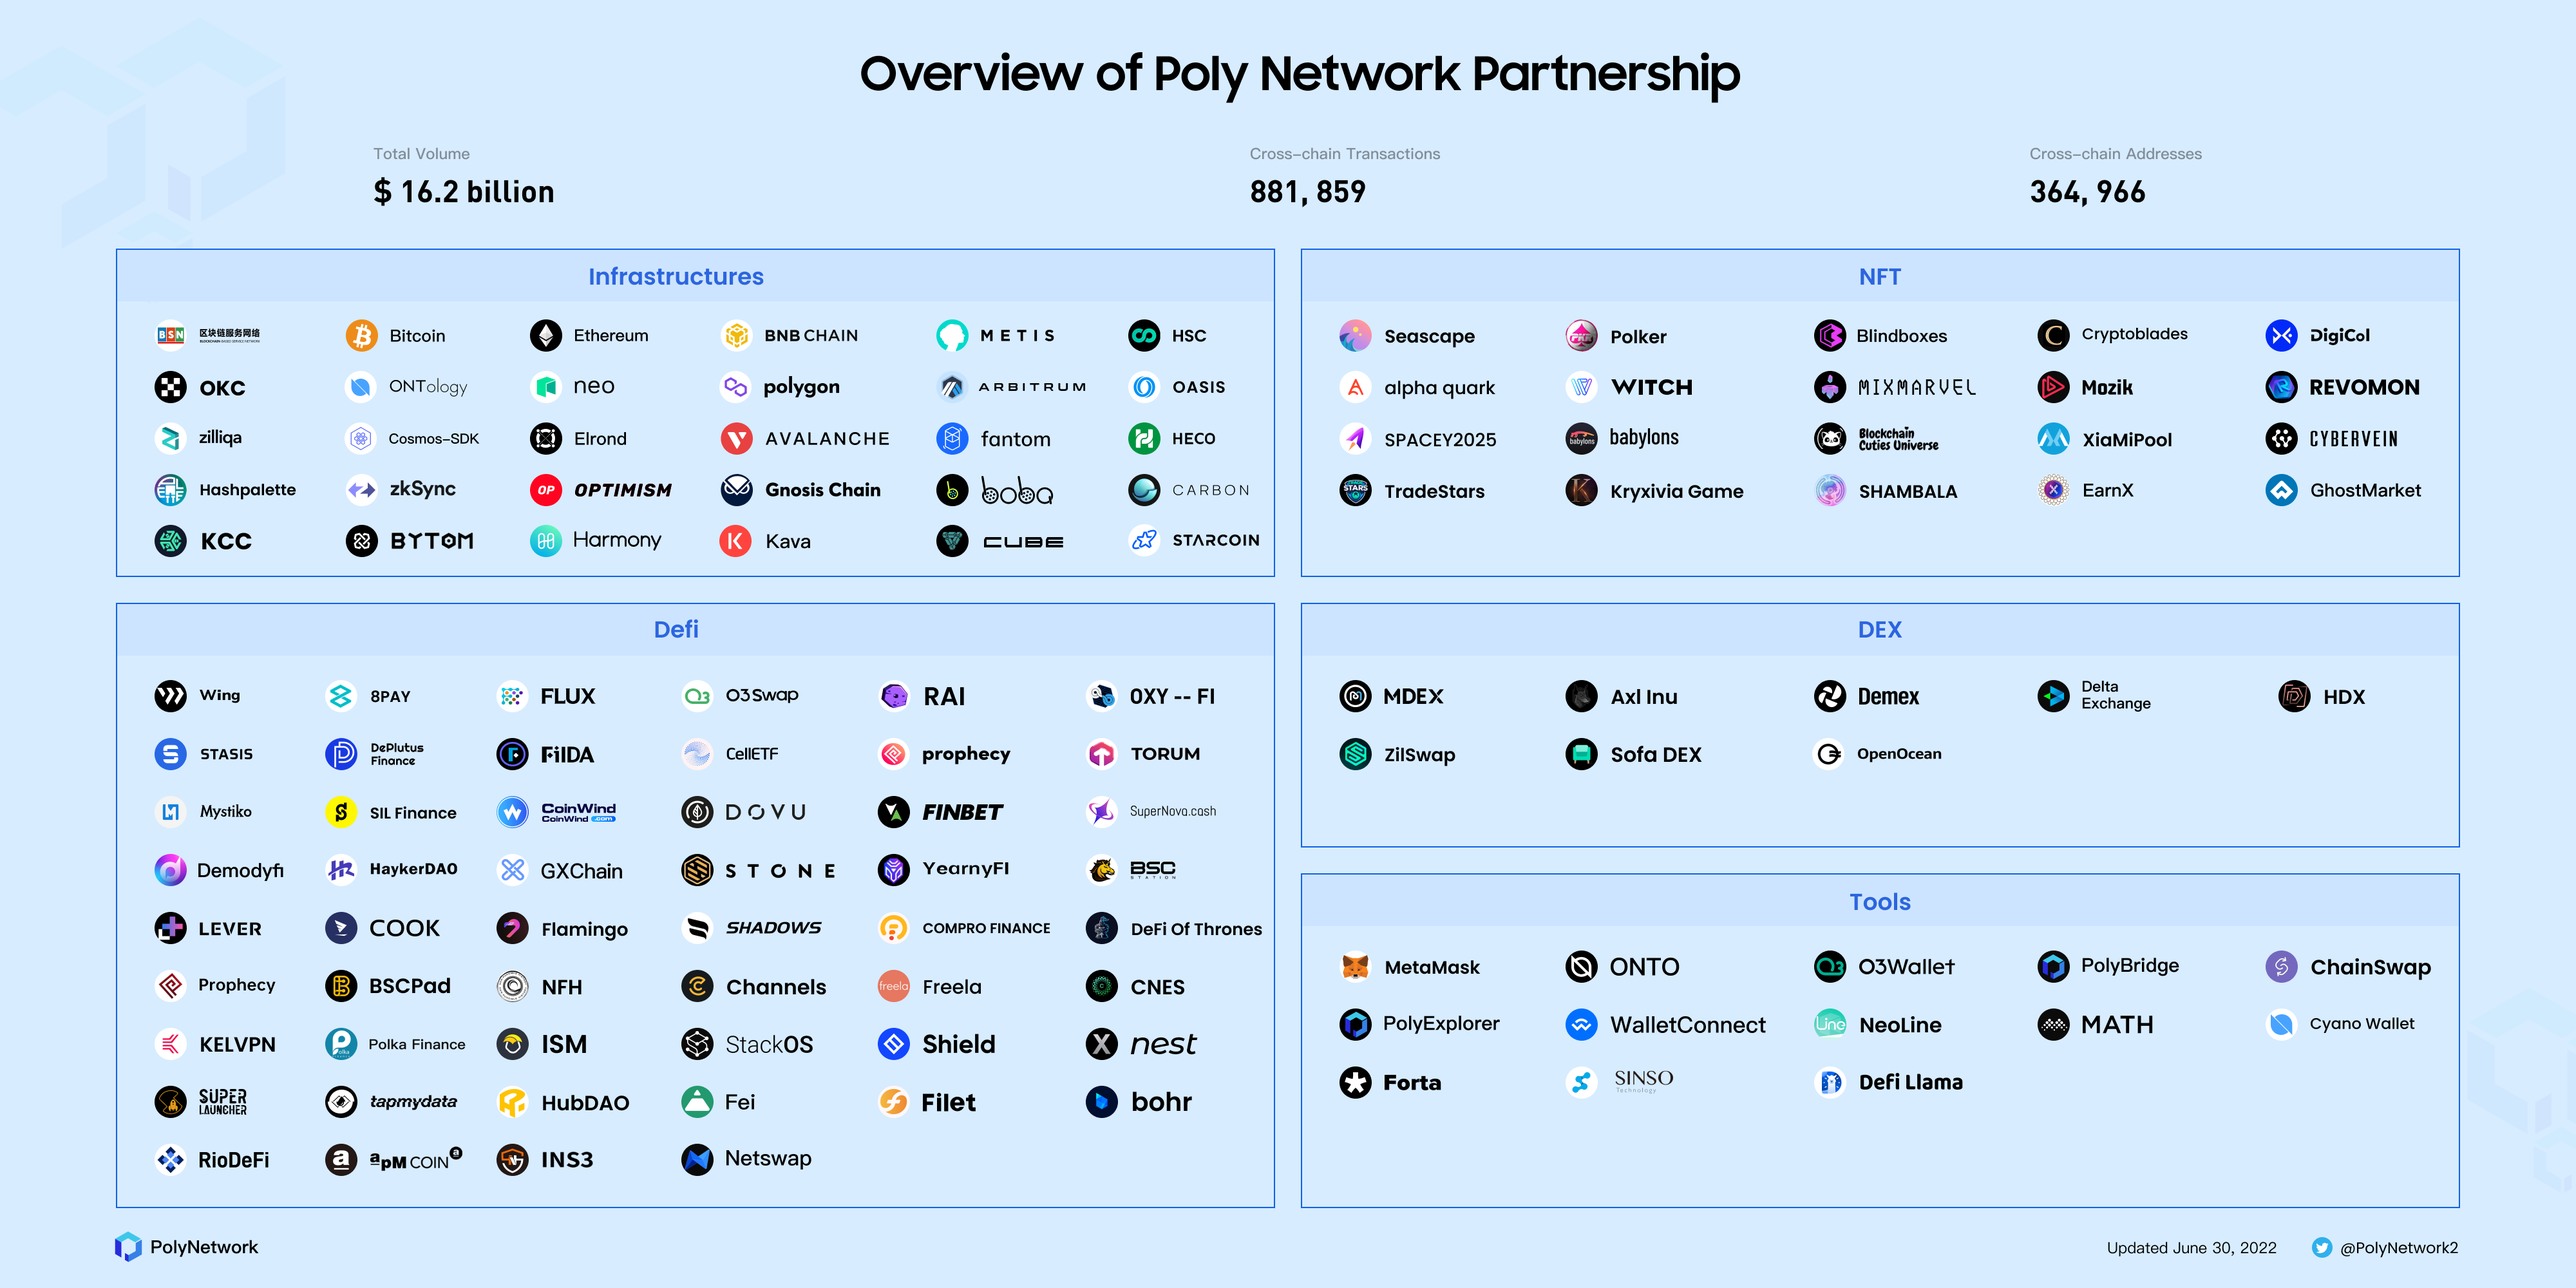
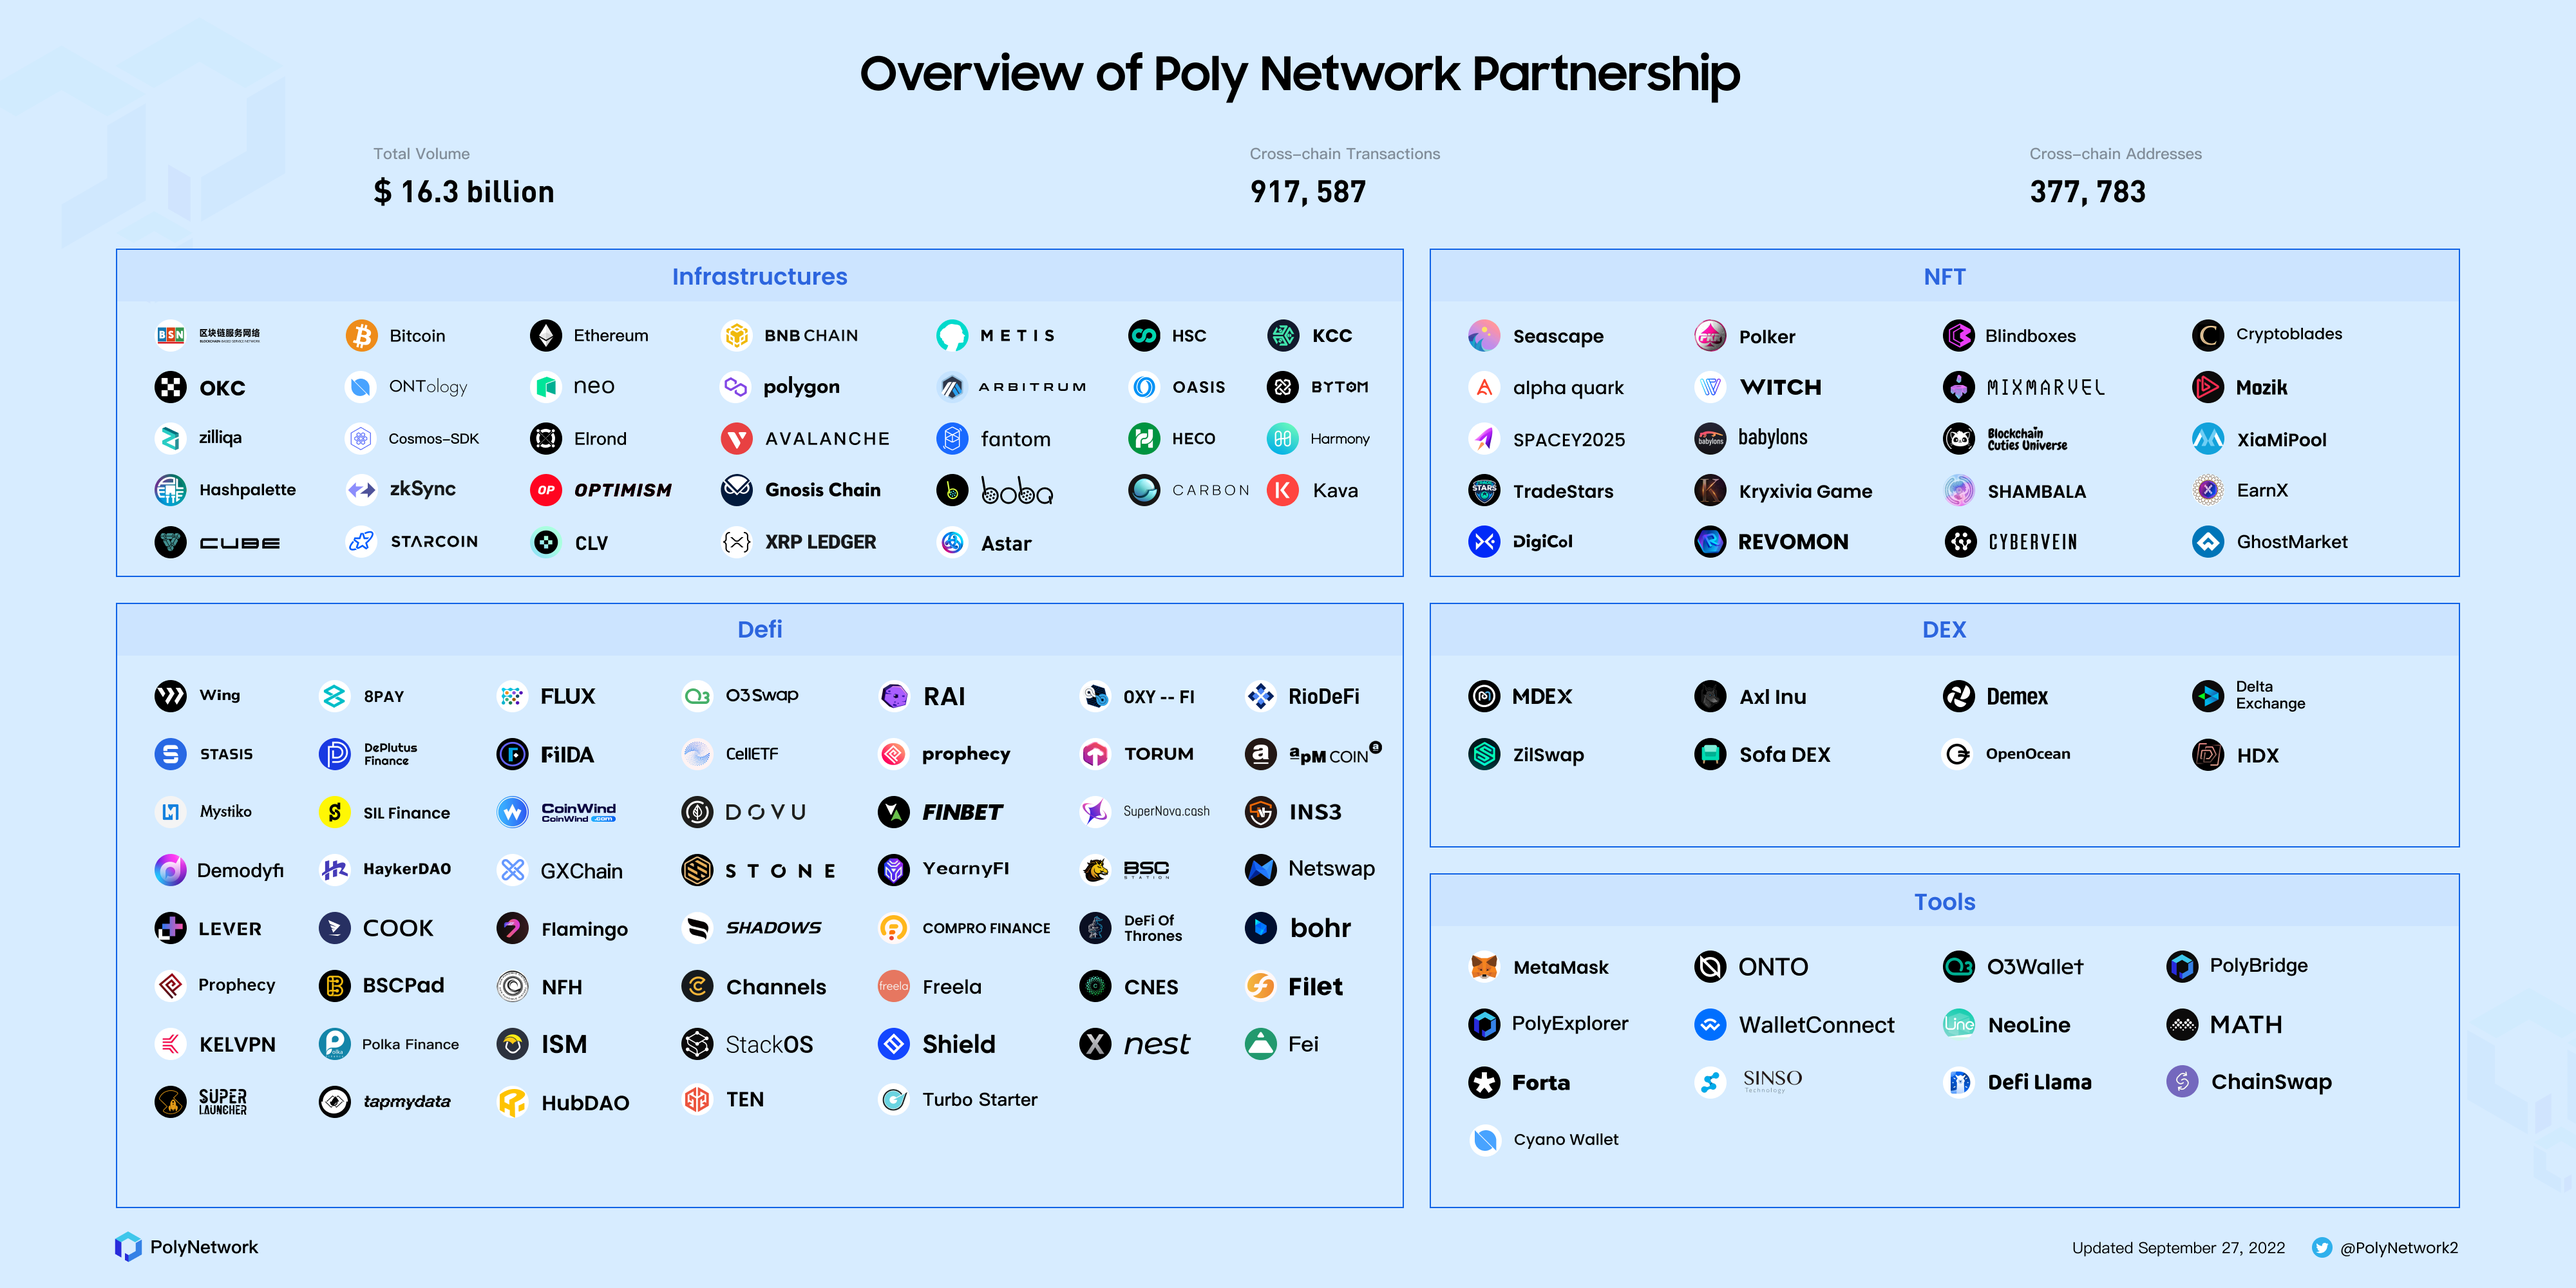
Update ecosystem & introduction (#52)
* Update introduction.md

* Add files via upload

diff --git a/introduction.md b/introduction.md
@@ -3,7 +3,7 @@
 Poly Network is the world’s leading cross-chain protocol for heterogeneous chains, enhancing connections between ledgers by providing Web 3.0 interoperability. 
 Its uniquely designed cross-chain bridge technology executes cross-chain transactions by deploying smart contracts on the source chain. This enables communication between heterogeneous chains, including the most popular public chains, right at the protocol layer.
 
-Poly Network has integrated over 20 blockchains, including Ethereum, BNB Chain, Polygon, Avalanche, Fantom, Arbitrum, Optimism, Metis, Boba, OKC, HECO, Neo, Ontology, Zilliqa, Gnosis Chain, etc.
+Poly Network has integrated over 30 blockchains, including Ethereum, BNB Chain, Polygon, Avalanche, Fantom, Arbitrum, Optimism, Metis, Boba, OKC, HECO, Neo, Ontology, Zilliqa, Gnosis Chain, etc.
 
 <div align=center><img src="resources/Poly-ecosystem.png" alt=""/></div>
 
